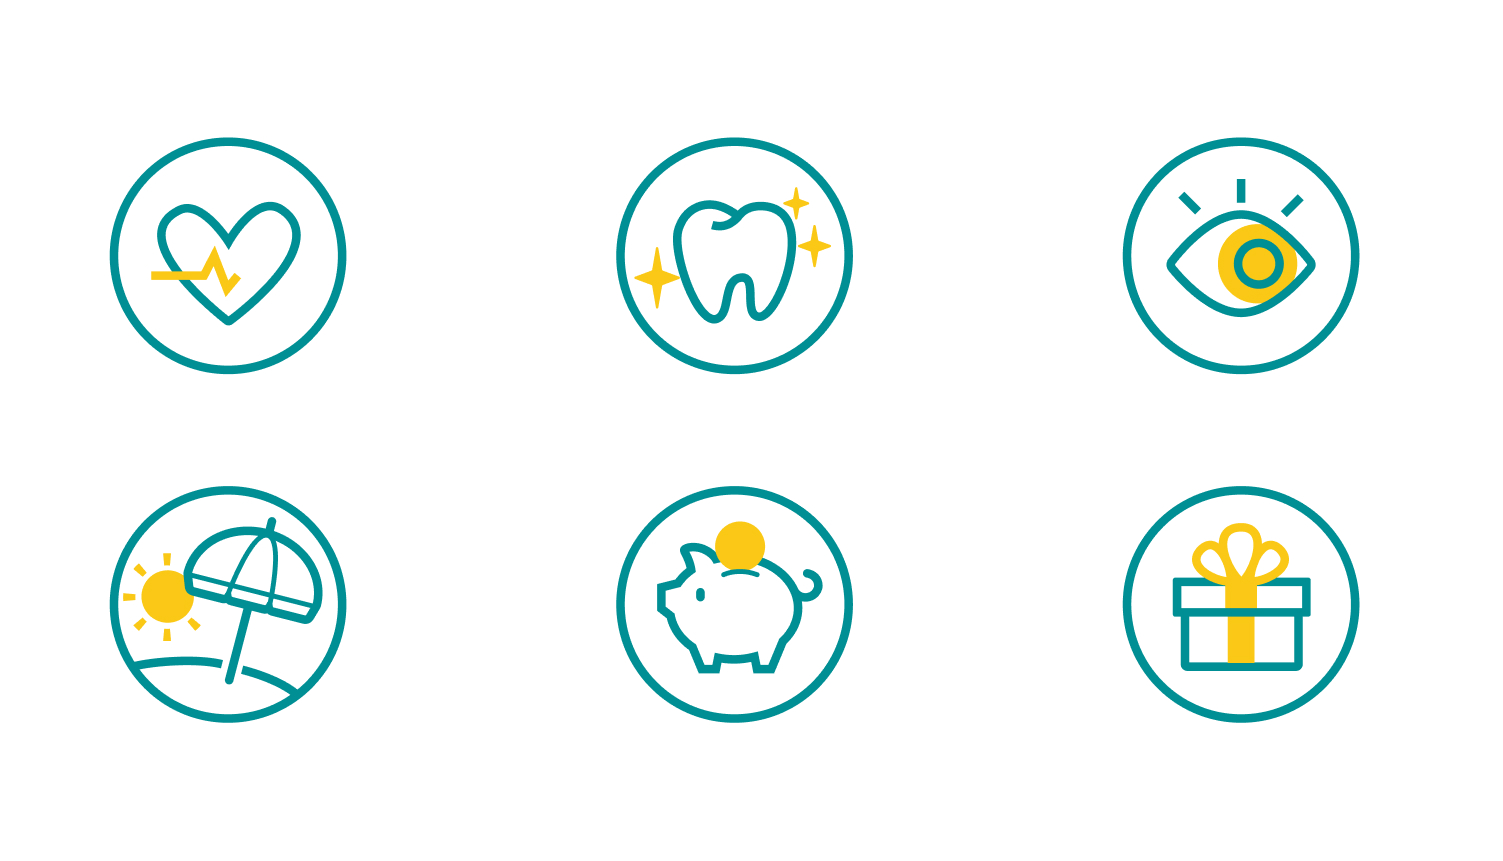
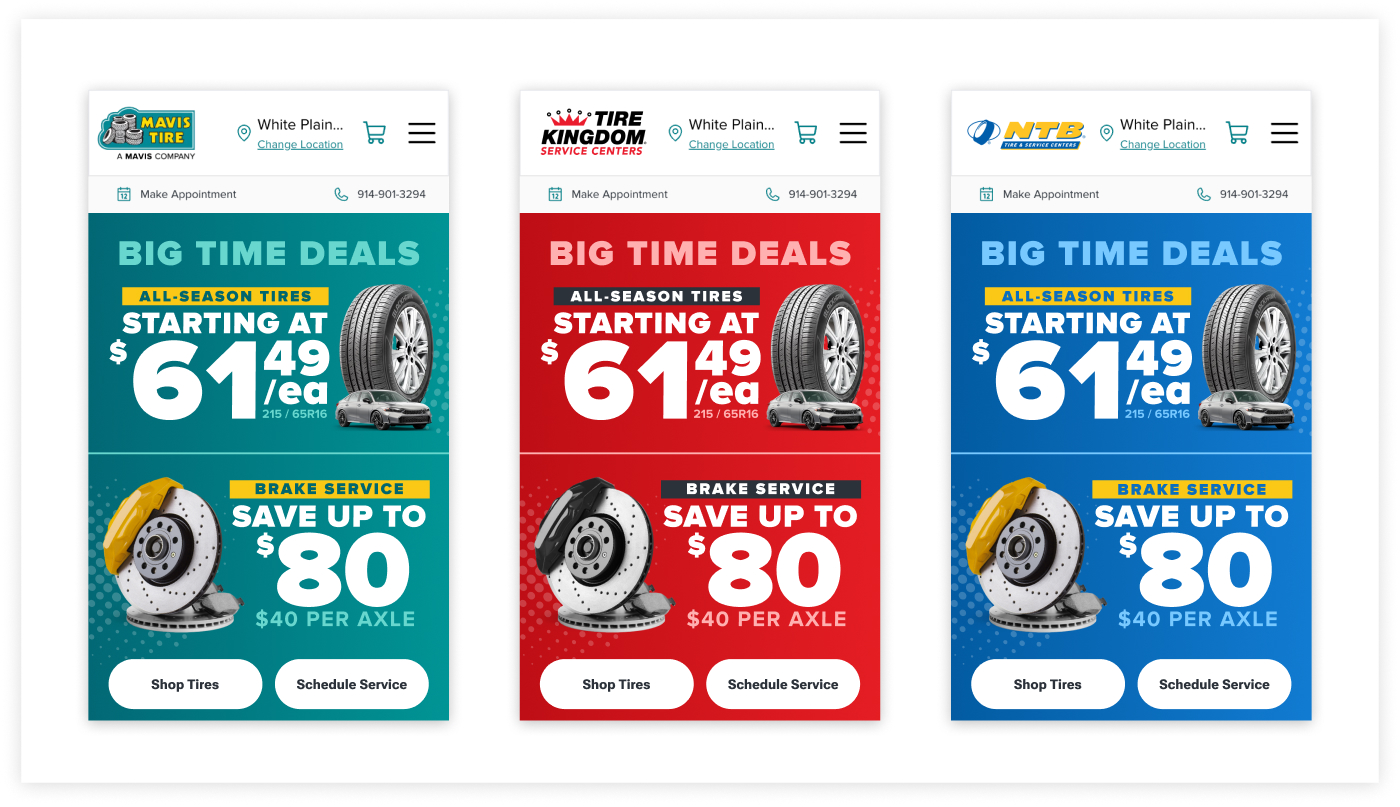
more gallery

diff --git a/src/jsx/pages/gallery.jsx b/src/jsx/pages/gallery.jsx
@@ -11,7 +11,7 @@ function Gallery(props) {
             <hr/>
 
             <div id='vcs-sea'>
-                <p>Drew key art and led art direction for the <a href="https://www.instagram.com/fromseatoseanyc/" target="_blank">2026 NYC Southeast Asian Festival</a>, garnering over 900+ attendees.</p>
+                <p>Drew key posters and led art direction for the <a href="https://www.instagram.com/fromseatoseanyc/" target="_blank">2026 NYC Southeast Asian Festival</a>, garnering over 900+ attendees.</p>
                 <MasonGrid imgList={[
                     {url: "img/vcs-sea-2.jpg"},
                     {url: "img/vcs-sea-1.jpg"},
@@ -44,18 +44,45 @@ function Gallery(props) {
             <hr/>
             
             <div id='mavis-assets'>
-                <p>Artist highlights created for a tech music night hosted by the Viet Creative Society <a href="https://www.instagram.com/p/DS5YAWNDli_/" target="_blank">(@vcs.nyc)</a>. </p>
+                <p>Created Mavis's style guide, partnering with Method Design to <b>redefine our 2025 site branding</b>.
+                    <br/>Made various vectors, web assets, and ad campaign key art.</p>
                 <MasonGrid imgList={[
-                    {url: "img/vcs-beep-boop-1.jpg"},
+                    {url: "img/mt-branding-1.jpg"},
+                    {url: "img/mt-branding-2.jpg"},
+                    {url: "img/mt-branding-3.jpg"},
+
+                    {url: "img/mt-branding-4.jpg"},
+                    
+                    {url: "img/mt-branding-7.jpg"},
+                    {url: "img/mt-branding-8.jpg"},
+                    {url: "img/mt-branding-9.jpg"},
+
+                    
+                    {url: "img/mt-branding-5.jpg"},
+                    {url: "img/mt-branding-6.jpg"},
                 ]}></MasonGrid>
             </div>
 
             <hr/>
 
             <div id='mavis-assets'>
-                <p>Artist highlights created for a tech music night hosted by the Viet Creative Society <a href="https://www.instagram.com/p/DS5YAWNDli_/" target="_blank">(@vcs.nyc)</a>. </p>
+                <p>Hobby illustrations throughout the years.  </p>
                 <MasonGrid imgList={[
-                    {url: "img/vcs-beep-boop-1.jpg"},
+                    
+                    {url: "img/hobby-art-5.jpg"},
+                    {url: "img/hobby-art-12.jpg"},
+                    
+                    {url: "img/hobby-art-2.jpg"},
+                    {url: "img/hobby-art-6.jpg"},
+                    {url: "img/hobby-art-3.jpg"},
+                    {url: "img/hobby-art-4.jpg"},
+                    {url: "img/hobby-art-7.jpg"},
+                    
+                    {url: "img/hobby-art-9.jpg"},
+                    {url: "img/hobby-art-10.jpg"},
+                    {url: "img/hobby-art-8.jpg"},
+                    {url: "img/hobby-art-11.jpg"},
+                    {url: "img/hobby-art-15.jpg"},
                 ]}></MasonGrid>
             </div>
 

diff --git a/src/jsx/data/projectData.jsx b/src/jsx/data/projectData.jsx
@@ -60,16 +60,16 @@ export const ProjectData = new Map([
         cover: 'img/soundboard-cover.jpg'}],
 
     ["gallery", {
-        title: "Soundboard App",
-        timeFrame: "2022",
-        role: ["Developer", "Backend & Navigation"],
-        tools: ["VSCode", "Kotlin", "Firebase"],
-        collab: ["3 Developers"],
-        tags: ["Featured","Dev"],
-        blurb: "Developing an Android app for sound designers to share soundbytes.",
-        link: "/archive",
-        thumbnail: 'img/soundboard-thumbnail.jpg',
-        cover: 'img/soundboard-cover.jpg'}]
+        title: "Misc. Art & Design",
+        timeFrame: "2023-2026",
+        role: ["Artist", "Designer"],
+        tools: ["Figma", "Procreate","Photoshop"],
+        collab: ["Marketing"],
+        tags: ["Featured", "Illustration", "Design", "Branding"],
+        blurb: "Collection of volunteer design work and misc art from over the years.",
+        link: "/gallery",
+        thumbnail: 'img/gallery-thumbnail.jpg',
+        cover: 'img/gallery-thumbnail.jpg'}]
 ]);
 
 export default ProjectData;

diff --git a/src/jsx/components/footer.jsx b/src/jsx/components/footer.jsx
@@ -21,7 +21,7 @@ const Footer = () => {
 
                 <div id='footerNav'> 
                     <NavLink to="/">Work</NavLink>
-                    <NavLink to="/archive">Archive</NavLink>
+                    <NavLink to="/gallery">Art Gallery</NavLink>
                     <NavLink to="/about">About</NavLink>
                     <NavLink to="/resume">Resume</NavLink>
                 </div>

diff --git a/src/jsx/components/navbar.jsx b/src/jsx/components/navbar.jsx
@@ -23,7 +23,7 @@ const Navbar = () => {
             
             <ul className={isNavOpen ? 'navActive' : 'navHidden'}>
                 <li><NavLink to="/">WORK</NavLink></li>
-                <li><NavLink to="/gallery">GALLERY</NavLink></li>
+                <li><NavLink to="/gallery">ART GALLERY</NavLink></li>
                 <li><NavLink to="/about">ABOUT</NavLink></li>
                 <li><NavLink to="/resume">RESUME</NavLink></li>
             </ul>

diff --git a/src/css/featuredCard.scss b/src/css/featuredCard.scss
@@ -74,6 +74,7 @@
 
 .featuredCardTags{
     display: flex;
+    flex-wrap: wrap;
     gap: 8px;
 }
 